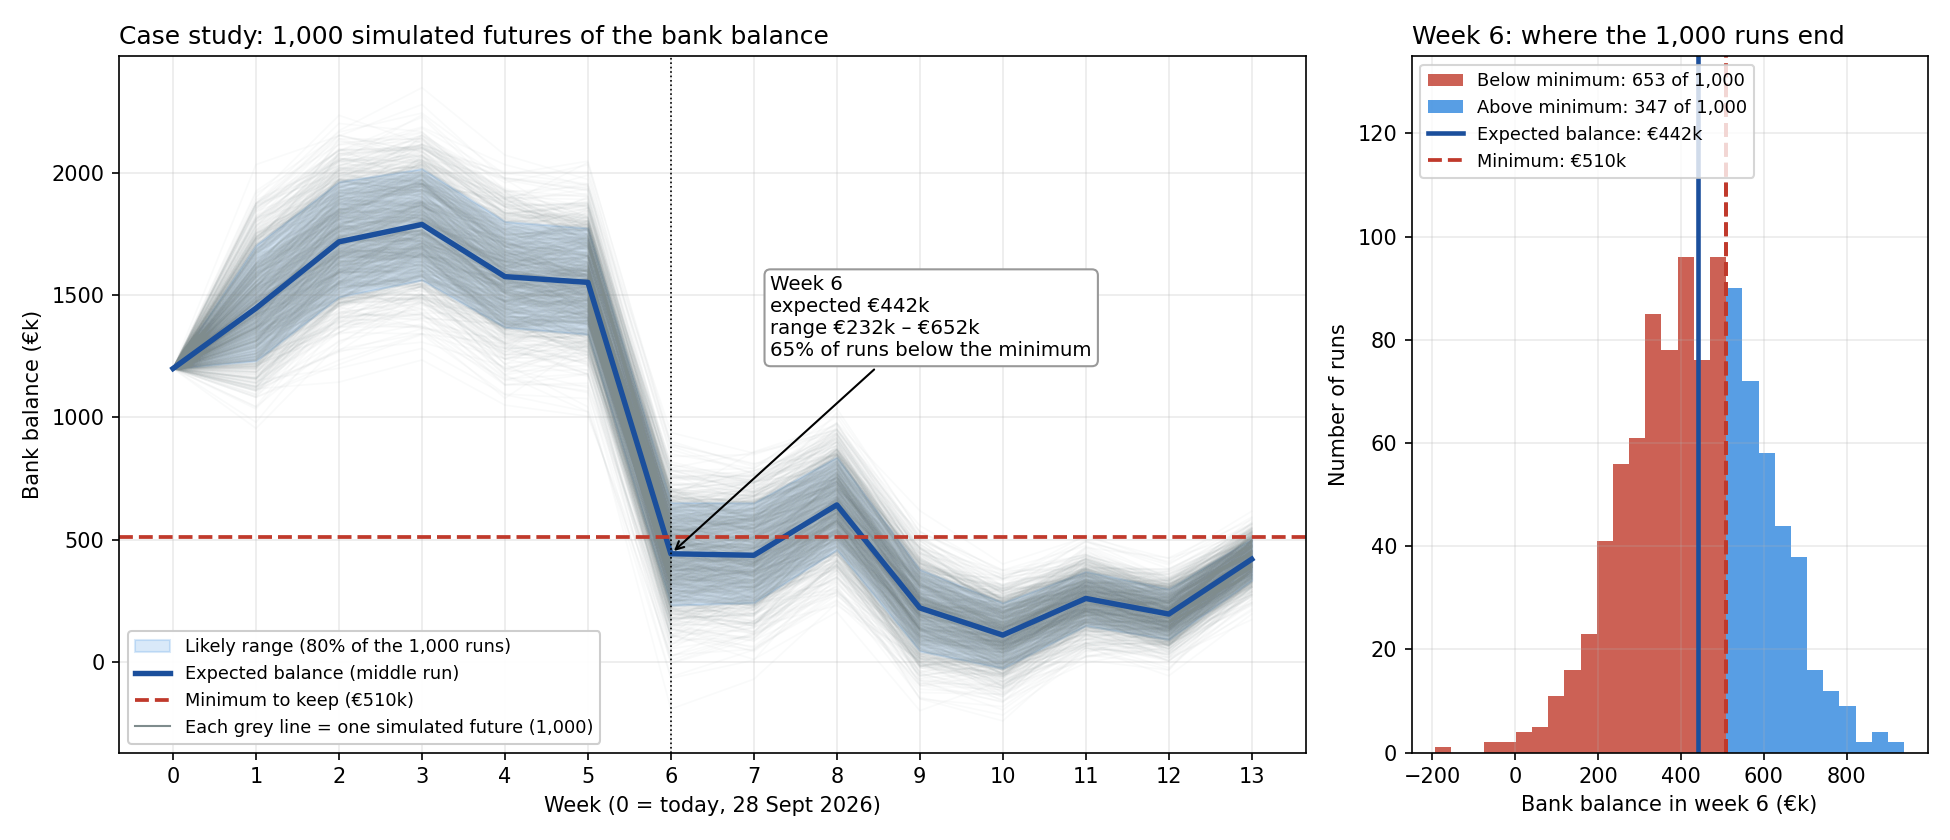
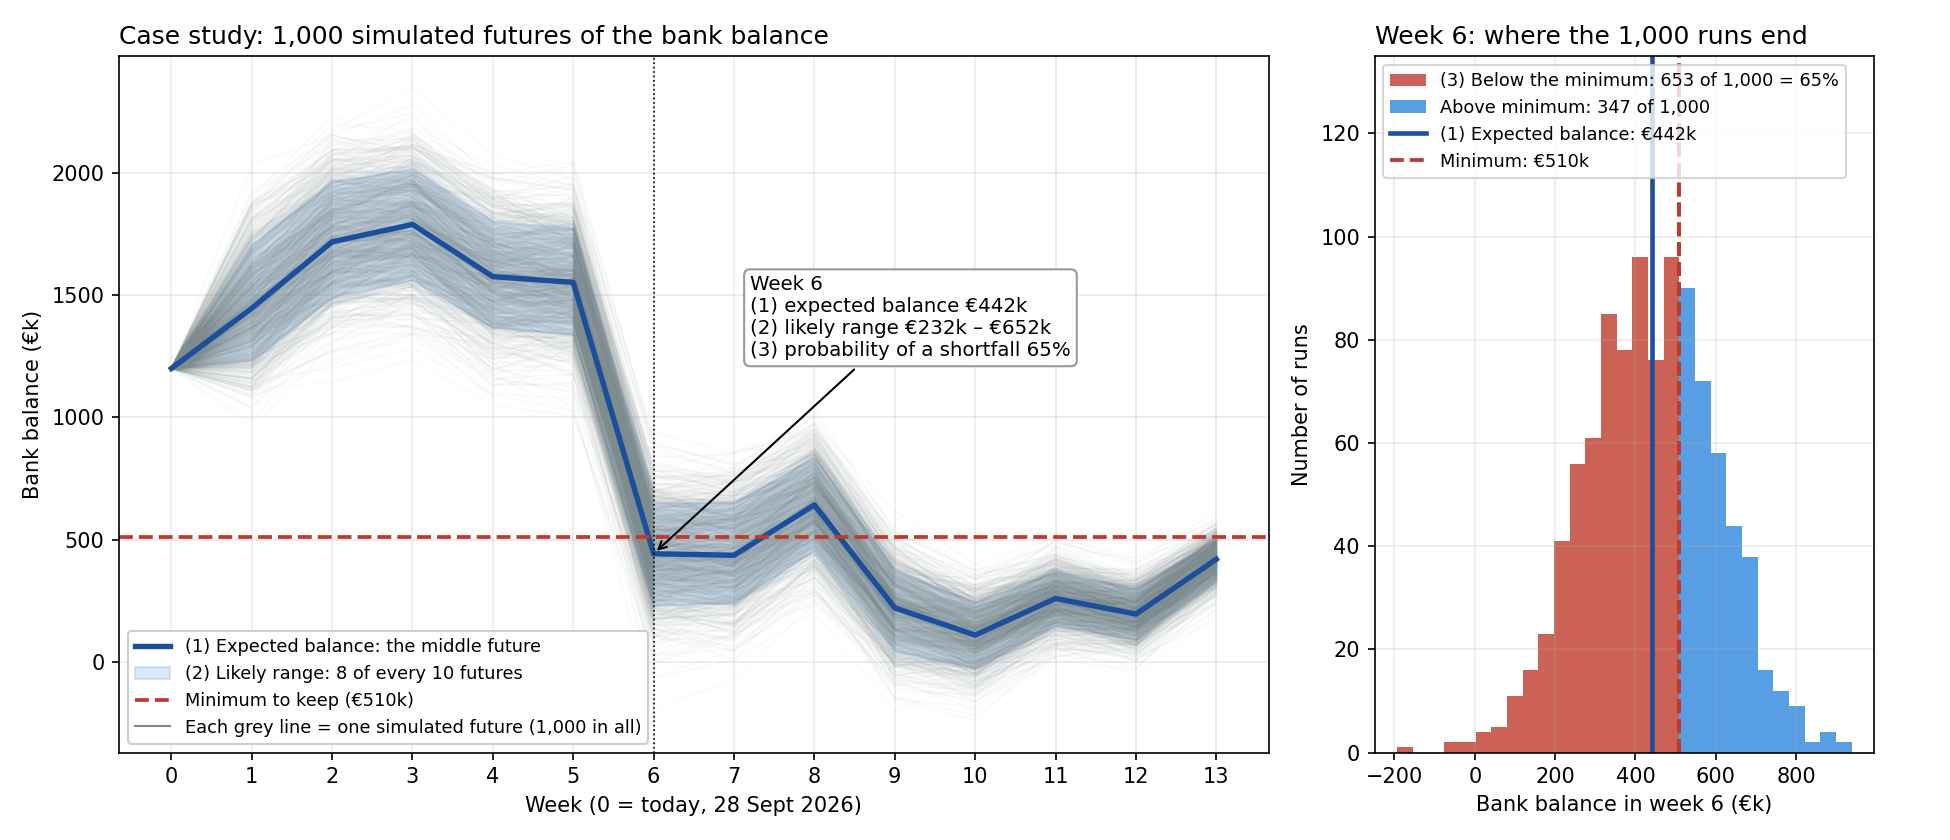
Supplementary Monte Carlo figure: the three results numbered (1) expected balance, (2) likely range, (3) probability of a shortfall
Claude-Session: https://claude.ai/code/session_01TXUr26jGf9sv6ye7xasg2x

diff --git a/scripts/mc_paths_figure.py b/scripts/mc_paths_figure.py
@@ -25,23 +25,23 @@ P0=np.hstack([np.full((len(P),1),1200.0),P])
 p10=[1200]+[B[str(k)]['p10']/1e3 for k in range(1,14)]; p50=[1200]+[B[str(k)]['p50']/1e3 for k in range(1,14)]; p90=[1200]+[B[str(k)]['p90']/1e3 for k in range(1,14)]
 fig,(a,h)=plt.subplots(1,2,figsize=(13,5.6),gridspec_kw={'width_ratios':[2.3,1]})
 for row in P0: a.plot(wk,row,color='#7f8c8d',alpha=0.04,lw=0.8)
-a.fill_between(wk,p10,p90,color='#2E86DE',alpha=0.18,label='Likely range (80% of the 1,000 runs)')
-a.plot(wk,p50,color='#1B4F9C',lw=2.6,label='Expected balance (middle run)')
+a.fill_between(wk,p10,p90,color='#2E86DE',alpha=0.18,label='(2) Likely range: 8 of every 10 futures')
+a.plot(wk,p50,color='#1B4F9C',lw=2.6,label='(1) Expected balance: the middle future')
 a.axhline(T,color='#C0392B',ls='--',lw=1.8,label='Minimum to keep (€510k)')
-a.plot([],[],color='#7f8c8d',lw=1,label='Each grey line = one simulated future (1,000)')
+a.plot([],[],color='#7f8c8d',lw=1,label='Each grey line = one simulated future (1,000 in all)')
 a.axvline(6,color='k',lw=0.8,ls=':')
 w=6
-a.annotate(f"Week 6\nexpected €{p50[w]:.0f}k\nrange €{p10[w]:.0f}k – €{p90[w]:.0f}k\n65% of runs below the minimum",xy=(6,p50[w]),xytext=(7.2,1250),fontsize=9.5,
+a.annotate(f"Week 6\n(1) expected balance €{p50[w]:.0f}k\n(2) likely range €{p10[w]:.0f}k – €{p90[w]:.0f}k\n(3) probability of a shortfall 65%",xy=(6,p50[w]),xytext=(7.2,1250),fontsize=9.5,
   arrowprops=dict(arrowstyle='->',color='k'),bbox=dict(boxstyle='round',fc='white',ec='#999'))
 a.set_xticks(wk); a.set_xlabel('Week (0 = today, 28 Sept 2026)'); a.set_ylabel('Bank balance (€k)')
 a.set_title('Case study: 1,000 simulated futures of the bank balance',fontsize=12,loc='left')
-a.legend(loc='lower left',fontsize=8.5,framealpha=0.95); a.grid(alpha=0.25)
+_h,_l=a.get_legend_handles_labels(); a.legend([_h[i] for i in (1,0,2,3)],[_l[i] for i in (1,0,2,3)],loc='lower left',fontsize=8.5,framealpha=0.95); a.grid(alpha=0.25)
 x=P[:,5]; below=x<T
 bins=np.linspace(x.min(),x.max(),30)
-h.hist(x[below],bins=bins,color='#C0392B',alpha=0.8,label=f'Below minimum: {below.sum()} of 1,000')
+h.hist(x[below],bins=bins,color='#C0392B',alpha=0.8,label=f'(3) Below the minimum: {below.sum()} of 1,000 = {below.sum()/10:.0f}%')
 h.hist(x[~below],bins=bins,color='#2E86DE',alpha=0.8,label=f'Above minimum: {(~below).sum()} of 1,000')
 h.axvline(T,color='#C0392B',ls='--',lw=1.8)
-h.axvline(p50[w],color='#1B4F9C',lw=2.2,label=f'Expected balance: €{p50[w]:.0f}k'); h.axvline(T,color='#C0392B',ls='--',lw=1.8,label='Minimum: €510k'); h.set_ylim(0,135)
+h.axvline(p50[w],color='#1B4F9C',lw=2.2,label=f'(1) Expected balance: €{p50[w]:.0f}k'); h.axvline(T,color='#C0392B',ls='--',lw=1.8,label='Minimum: €510k'); h.set_ylim(0,135)
 h.set_title('Week 6: where the 1,000 runs end',fontsize=12,loc='left'); h.set_xlabel('Bank balance in week 6 (€k)'); h.set_ylabel('Number of runs')
 h.legend(fontsize=8.5,loc='upper left'); h.grid(alpha=0.25)
 plt.tight_layout(); plt.savefig(str(Path(__file__).resolve().parent.parent/'docs/figures/Supplementary_monte_carlo_1000_futures.png'),dpi=150)

diff --git a/docs/figures/supplementary_monte_carlo.md b/docs/figures/supplementary_monte_carlo.md
@@ -3,9 +3,12 @@
 ![The 1,000 simulated futures of the bank balance in the case study, and where they end in week 6](Supplementary_monte_carlo_1000_futures.png)
 
 **Case study (DemoCo, forecast made on 28 September 2026): 1,000 simulated futures of the bank balance.**
-Left: each grey line is one simulated future of the next 13 weeks; in each one, every customer pays on a date drawn from its own past payments. The blue line is the expected balance (the middle future), the blue band is the likely range (the 800 central futures, 80% of the runs), and the red dashed line is the minimum DemoCo must keep (€510k, four weeks of fixed costs).
-Right: where the 1,000 futures end in week 6, when the supplier bills fall due. 653 of them fall below the minimum (red) and 347 stay above (blue): hence the 65% probability shown in the warning.
+Each grey line is one simulated future of the next 13 weeks: in each one, every customer pays on a date drawn from its own past payments. The red dashed line is the minimum DemoCo must keep (€510k, four weeks of fixed costs). For each week, the 1,000 futures give three results:
 
-In week 6: expected balance €442k · likely range €232k–€652k · probability below the minimum 65%.
+1. **Expected balance** (blue line): the balance in the middle of the 1,000 futures; half of them end above it, half below.
+2. **Likely range** (blue band): the band that contains 8 of every 10 futures, leaving out the most extreme ones.
+3. **Probability of a shortfall** (right panel, red bars): how many of the 1,000 futures end below the minimum. In week 6, when the supplier bills fall due, 653 of 1,000 do: a 65% probability.
+
+In week 6: (1) expected balance €442k · (2) likely range €232k–€652k · (3) probability of a shortfall 65%.
 
 All data are synthetic. The figure is made by [scripts/mc_paths_figure.py](../../scripts/mc_paths_figure.py) from the engine's own Monte Carlo (1,000 runs, seed 42); its values match the demo week by week.
